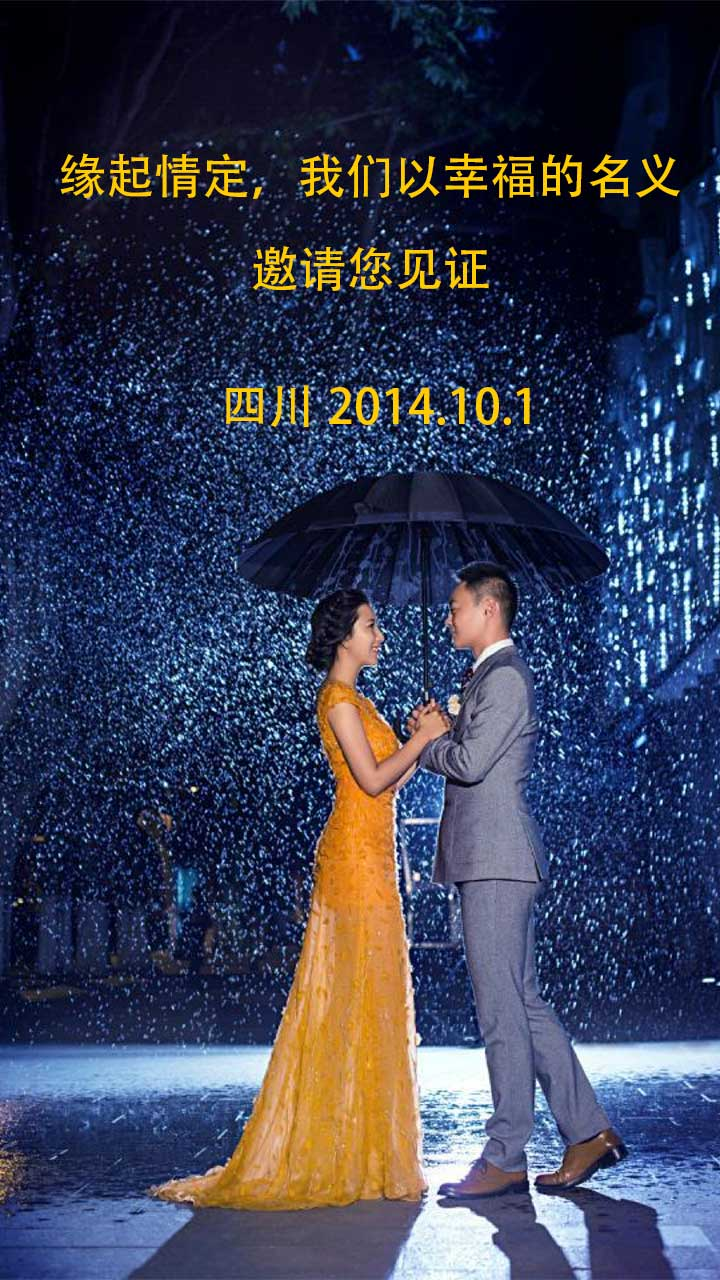
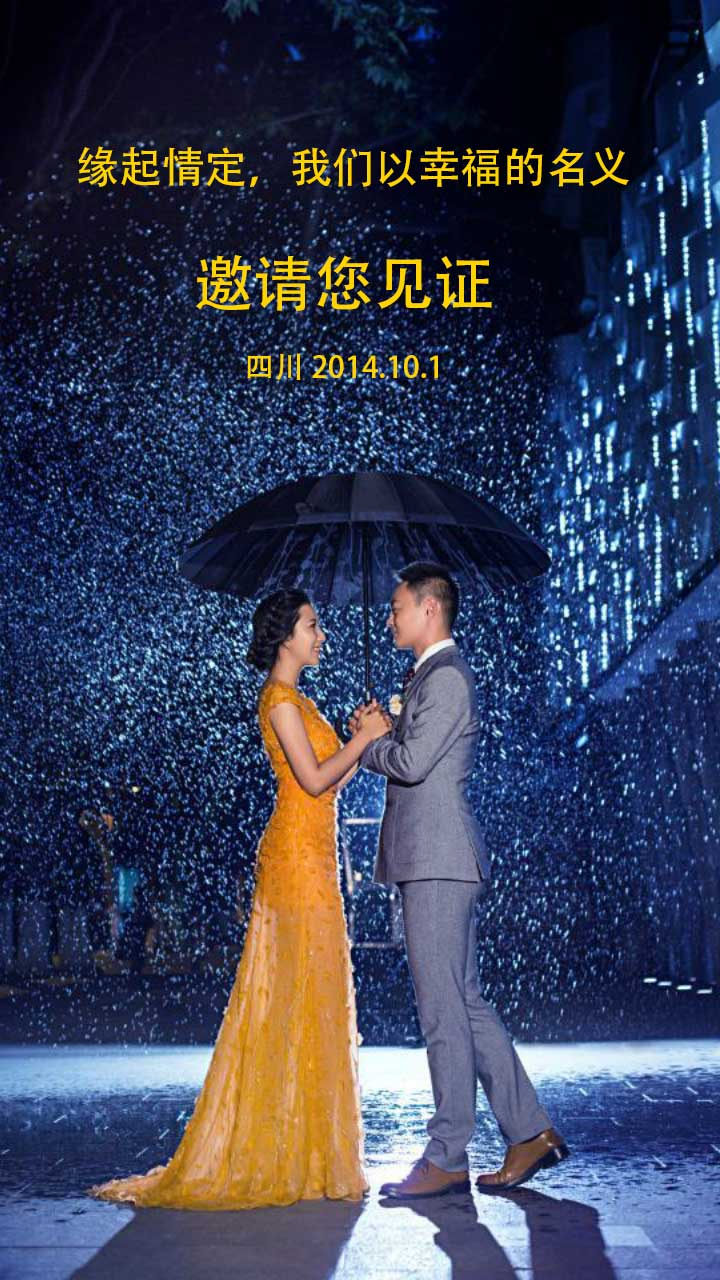
Site updated at 2014-08-15 05:06:09 UTC

diff --git a/gx-wedding/js/lottery.js b/gx-wedding/js/lottery.js
@@ -44,10 +44,10 @@ Lottery.prototype = {
         x = x * 2;
         y = y * 2;
         this.maskCtx.beginPath();
-        var radgrad = this.maskCtx.createRadialGradient(x, y, 0, x, y, 60);
+        var radgrad = this.maskCtx.createRadialGradient(x, y, 0, x, y, 100);
         radgrad.addColorStop(0, 'rgba(0,0,0,1)');
         this.maskCtx.fillStyle = radgrad;
-        this.maskCtx.arc(x, y, 60, 0, Math.PI * 2, true);
+        this.maskCtx.arc(x, y, 100, 0, Math.PI * 2, true);
         this.maskCtx.fill();
     },
     bindEvent: function () {
@@ -77,14 +77,18 @@ Lottery.prototype = {
         }
         this.mask.addEventListener(clickEvtName, function (e) {
             isMouseDown = true;
+            var imageWidth = 360;
+            var screenWidth = window.outerWidth;
+            var scale = screenWidth / imageWidth;
+
             if (!_this.clientRect) {
                 _this.clientRect = {
                     left: 0,
                     top:0
                 };
             }
-            var x = (device ? e.touches[0].clientX : e.clientX) - _this.clientRect.left + docEle.scrollLeft - docEle.clientLeft;
-            var y = (device ? e.touches[0].clientY : e.clientY) - _this.clientRect.top + docEle.scrollTop - docEle.clientTop;
+            var x = ((device ? e.touches[0].clientX : e.clientX) - _this.clientRect.left + docEle.scrollLeft - docEle.clientLeft) / scale;
+            var y = ((device ? e.touches[0].clientY : e.clientY) - _this.clientRect.top + docEle.scrollTop - docEle.clientTop) / scale;
             _this.drawPoint(x, y);
         }, false);
 
@@ -92,14 +96,17 @@ Lottery.prototype = {
             if (!device && !isMouseDown) {
                 return false;
             }
+            var imageWidth = 360;
+            var screenWidth = window.outerWidth;
+            var scale = screenWidth / imageWidth;
             if (!_this.clientRect) {
                 _this.clientRect = {
                     left: 0,
                     top:0
                 };
             }
-            var x = (device ? e.touches[0].clientX : e.clientX) - _this.clientRect.left + docEle.scrollLeft - docEle.clientLeft;
-            var y = (device ? e.touches[0].clientY : e.clientY) - _this.clientRect.top + docEle.scrollTop - docEle.clientTop;
+            var x = ((device ? e.touches[0].clientX : e.clientX) - _this.clientRect.left + docEle.scrollLeft - docEle.clientLeft) / scale;
+            var y = ((device ? e.touches[0].clientY : e.clientY) - _this.clientRect.top + docEle.scrollTop - docEle.clientTop) / scale;
             _this.drawPoint(x, y);
         }, false);
     },

diff --git a/gx-wedding/index.html b/gx-wedding/index.html
@@ -4,7 +4,7 @@
 <meta charset="utf-8">
 <meta name="viewport" content="width=device-width, initial-scale=1.0, user-scalable=0, minimum-scale=1.0, maximum-scale=1.0">
 
-<title>Cardview</title>
+<title>Wedding Invitation</title>
 
 <script src="//ajax.googleapis.com/ajax/libs/jquery/1.11.1/jquery.min.js"></script>
 <script type="text/javascript" src="js/lottery.js"></script>
@@ -25,7 +25,9 @@ window.onload = function () {
 			$('#wrapper').show();	
 			$('.audio').show();
 
-			document.getElementsByTagName("audio")[0].play();
+			$(document).on('touchend', function() {
+				document.getElementsByTagName("audio")[0].play();
+			});
 
 			deck = new CardView('#wrapper', {
 				dataset: data,
@@ -58,15 +60,26 @@ function getRandomStr(len) {
   return text;
 }
 
-$(document).on('click', '.audio', function() {
-	var audioDom = document.getElementsByTagName("audio")[0];
-	if ($(this).is('.on')) {
-		audioDom.pause();
-		$(this).removeClass('on').addClass('off');
-	} else {
-		audioDom.play();	
-		$(this).removeClass('off').addClass('on');
-	}
+$(function(){
+
+	$('.audio').on('click', function() {
+		var audioDom = document.getElementsByTagName("audio")[0];
+		if ($(this).is('.on')) {
+			audioDom.pause();
+			$(this).removeClass('on').addClass('off');
+		} else {
+			audioDom.play();	
+			$(this).removeClass('off').addClass('on');
+		}
+	});
+
+
+
+  $('body').on('touchstart', function (e) {
+    document.getElementsByTagName("audio")[0].play();
+    document.getElementsByTagName("audio")[0].pause();
+  });
+
 });
 
 </script>
@@ -271,7 +284,8 @@ body {
 	position: absolute;
 	bottom: 0;
 	z-index: 100;
-	font-size: 3rem;
+	font-weight: 800;
+	font-size: 2rem;
 	width: 100%;
 	text-align: center;
 	color: #fff;
@@ -279,7 +293,7 @@ body {
 }
 
 .icon-arrow {
-	-webkit-transform: rotate(90deg);
+	-webkit-transform: rotate(-90deg) scale(1,2.5);
 	display: inline-block;
 }
 
@@ -349,7 +363,7 @@ body {
 				<p>Text</p>
 			</div>
 			<div class="arrow">
-				<span class="icon-arrow">&#10095;</span>
+				<span class="icon-arrow">></span>
 			</div>
 		</li>
 
@@ -360,7 +374,7 @@ body {
 			</div>
 
 			<div class="arrow">
-				<span class="icon-arrow">&#10095;</span>
+				<span class="icon-arrow">></span>
 			</div>
 		</li>
 
@@ -371,7 +385,7 @@ body {
 			</div>
 
 			<div class="arrow">
-				<span class="icon-arrow">&#10095;</span>
+				<span class="icon-arrow">></span>
 			</div>
 		</li>		
 	</ul>
